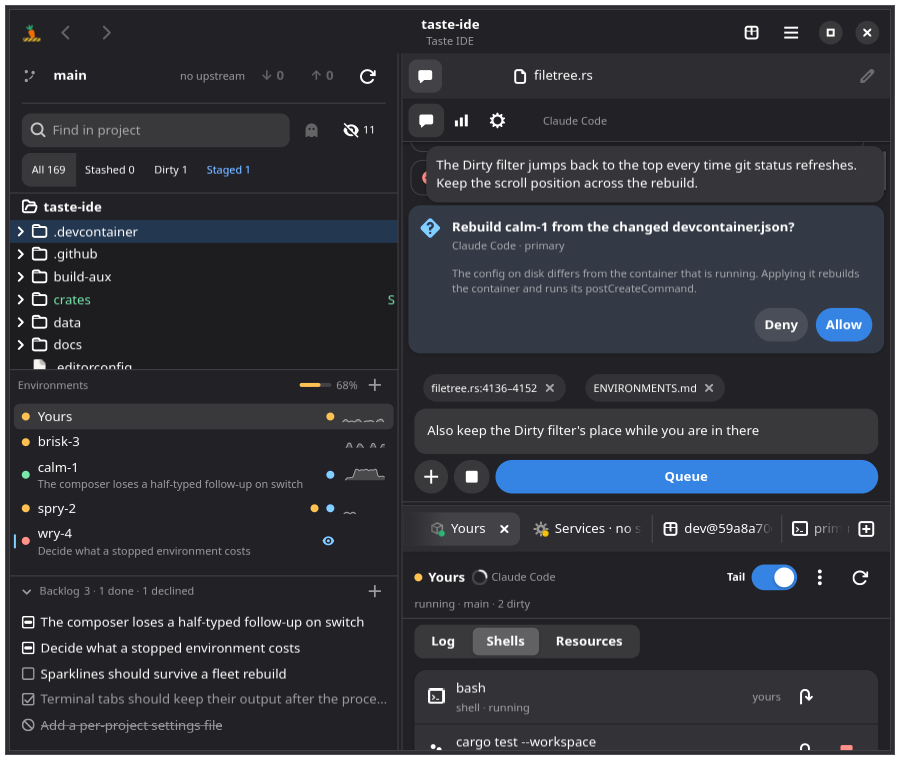
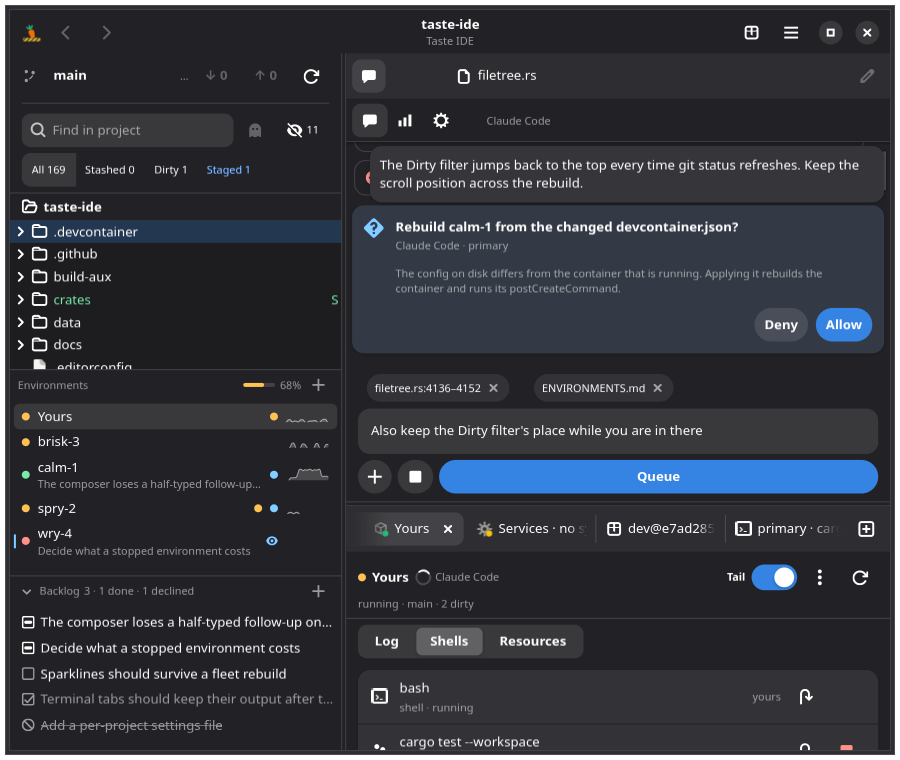
Console: the Services sidebar stops pinning the tabbed centre's floor
AdwTabView measures every page, visible or not, so the Services page's
unit-list sidebar — width_request(220), pinning MINIMUM and natural to
the same number — set the whole tabbed centre's floor at 470px even
while some other tab was on screen (the visible one asked 276).
max_content_width(220) keeps the same comfortable width in the wide
case (the rows already ellipsize, same as the flank's) without forcing
it as a floor when this page isn't even the one showing.

With both this and the flank's sync-row fix in, the tightest remaining
minimum at the consolidated rung is chat_column's own deliberate 320px
width request — not a bug, the rung's actual floor moves from ~877px of
window to ~800px. gadget.rs's note on CONSOLIDATED_MAX_WIDTH_SP is
rewritten to describe what was actually found (via measure_w) rather
than the original guess, and docs/screenshots/consolidated.png is
retaken: unchanged in composition, narrower and correctly showing the
git status line's ellipsis under the same deliberately-squeezed framing
the shot has always used.

diff --git a/crates/taste-app/src/gadget.rs b/crates/taste-app/src/gadget.rs
@@ -73,21 +73,33 @@ pub const GADGET_MAX_WIDTH_SP: f64 = 520.0;
 /// splitting.
 ///
 /// **The floor under this rung.** Keeping the flank means three panes have
-/// to fit side by side, and their minimums add up: measured against the
-/// screenshot fixture, the flank asks 392px (its rows are fixed-width —
-/// minimum and natural are the same number) and the centre 470, which with
-/// the handle is 867 of content, so the window fits the layout down to
-/// about 877px and no further. Inside the band, and the probe shoots the
-/// rung at 900.
+/// to fit side by side, and their minimums add up. This used to bottom out
+/// around 877px, for two reasons that both turned out to be avoidable
+/// rather than structural — walk them with `TASTE_PROBE_CHECK`'s
+/// `measure_w` dump, which is how each was actually found rather than
+/// guessed at:
 ///
-/// Below that the panes are already at their minimums and the centre's
-/// right edge leaves the window — GTK allocates a minimum it cannot
-/// honour rather than clipping a pane below it. Getting under it means
-/// making one of those two minimums smaller and nothing else: the console's
-/// 470 is set by a tab page nobody is looking at (`AdwTabView` measures
-/// every page; the visible one asks 276), and the flank's 392 is a row that
-/// does not ellipsize. Neither is a layout bug, so neither is fixed by
-/// force here.
+/// - The flank asked 392px, and the environment panel's rows (the obvious
+///   suspect — `envstrip.rs`) were not it: they already ellipsize, same as
+///   the backlog's. The dump pointed at the git status row in the header
+///   instead — the branch dropdown's deliberate `width-chars` floor plus
+///   the sync label (`filetree.rs`), which carried sentences like "rebase
+///   paused — resolve, mark, Continue" at their full, un-ellipsized width.
+///   Ellipsizing that label (`FileTree::set_sync_label`, full text in the
+///   tooltip) dropped the flank to 335 without touching the branch
+///   dropdown's own floor, which stays deliberate.
+/// - The centre's console asked 470 for a tab page nobody was looking at
+///   (`AdwTabView` measures every page; the visible one asked 276) — the
+///   Services page (`services.rs`), whose unit-list sidebar carried a
+///   `width_request(220)` that pinned MINIMUM and natural to the same
+///   number. Swapped for `max_content_width(220)`, which caps the
+///   comfortable wide-window size without forcing it as a floor, since the
+///   rows in that list already ellipsize too.
+///
+/// With both gone, the tightest remaining floor is `chat_column`'s own
+/// 320px width request — a deliberate one, not a bug — so the rung now
+/// fits down to about 800px of window rather than 877, and the probe
+/// still shoots it at 900, inside the (wider) band.
 ///
 /// What WAS a layout bug — the centre asking 731 rather than its 470,
 /// because a wrapping label in the chat answered "how wide, to fit in the

diff --git a/crates/taste-app/src/services.rs b/crates/taste-app/src/services.rs
@@ -86,7 +86,15 @@ impl ServicesPane {
             .build();
         let list_scroller = gtk::ScrolledWindow::builder()
             .child(&list)
-            .width_request(220)
+            // A cap on natural width, not a floor: `width_request` pinned
+            // MINIMUM and natural to the same 220px, which is why this
+            // page (hidden behind another console tab most of the time)
+            // set the whole `AdwTabView`'s minimum width — every page is
+            // measured for it, visible or not. The rows already ellipsize
+            // (name Middle, description End), so the list's true minimum
+            // is small; only the comfortable wide-window width is worth
+            // pinning, and `max_content_width` pins only that.
+            .max_content_width(220)
             .vexpand(true)
             .build();
 
